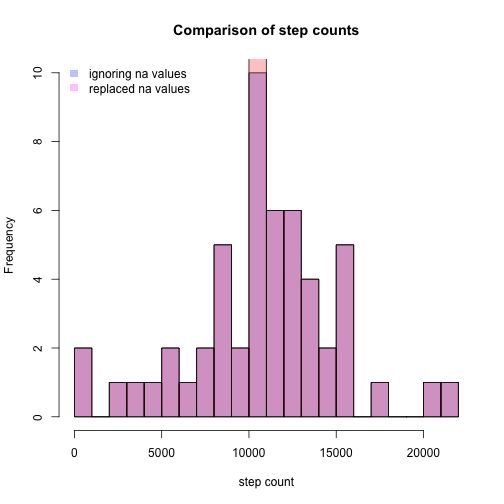
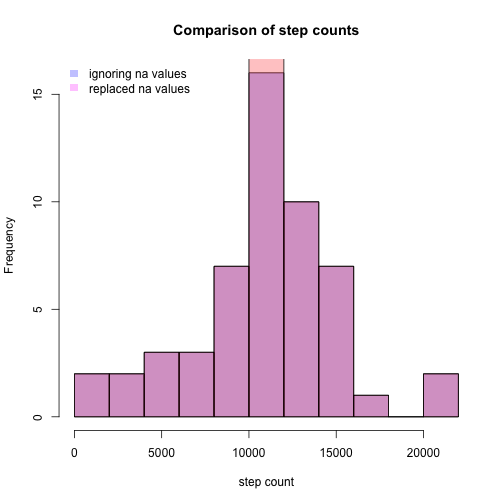
fixed the wrong bin size with the bonus graph

diff --git a/PA1_template.html b/PA1_template.html
@@ -277,8 +277,8 @@ mddaynew&lt;-median(avdaynew$count, na.rm=TRUE)
 
 <p>BONUS: Here is an overlay of the two histograms:</p>
 
-<pre><code class="r">ign&lt;-hist(avday$count, breaks=24, plot=FALSE)
-rep&lt;-hist(avdaynew$count, breaks=24, plot=FALSE)
+<pre><code class="r">ign&lt;-hist(avday$count, breaks=12, plot=FALSE)
+rep&lt;-hist(avdaynew$count, breaks=12, plot=FALSE)
 plot(ign, col=rgb(0,0,1,1/4), main=&quot;Comparison of step counts&quot;, xlab = &quot;step count&quot;)
 plot(rep, col=rgb(1,0,0,1/4), add=TRUE)
 legend(&#39;topleft&#39;,c(&#39;ignoring na values&#39;,&#39;replaced na values&#39;),
@@ -286,7 +286,7 @@ legend(&#39;topleft&#39;,c(&#39;ignoring na values&#39;,&#39;replaced na values&
        border = NA)
 </code></pre>
 
[2 lines of base64/hex data omitted]
 
 <p>To address the question asked in the assignment, yes, adding in the missing values makes some difference, but because the missing values seem to largely represent entire days and I replaced the missing values with the average for that time bin, it just increases the number of days with the average number of steps. It&#39;s questionable whether this is a reasonable data manipulation given the circumstances.</p>
 

diff --git a/PA1_template.md b/PA1_template.md
@@ -95,8 +95,8 @@ BONUS: Here is an overlay of the two histograms:
 
 
 ```r
-ign<-hist(avday$count, breaks=24, plot=FALSE)
-rep<-hist(avdaynew$count, breaks=24, plot=FALSE)
+ign<-hist(avday$count, breaks=12, plot=FALSE)
+rep<-hist(avdaynew$count, breaks=12, plot=FALSE)
 plot(ign, col=rgb(0,0,1,1/4), main="Comparison of step counts", xlab = "step count")
 plot(rep, col=rgb(1,0,0,1/4), add=TRUE)
 legend('topleft',c('ignoring na values','replaced na values'),
